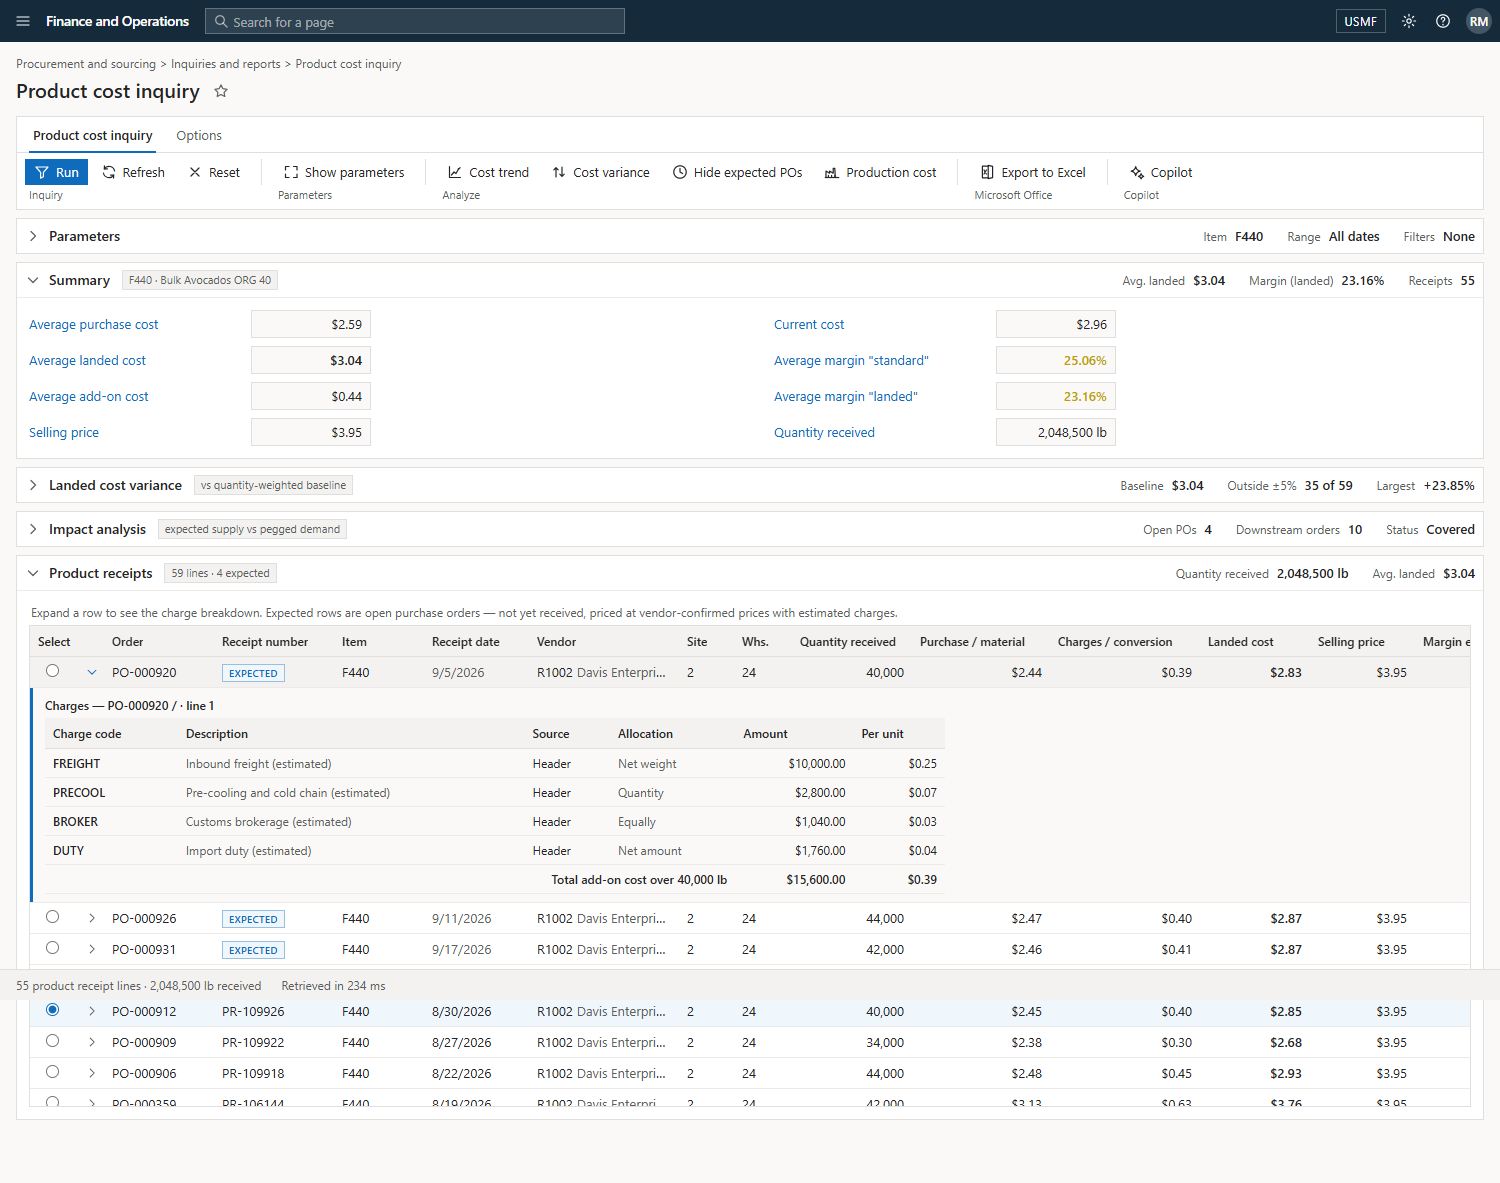
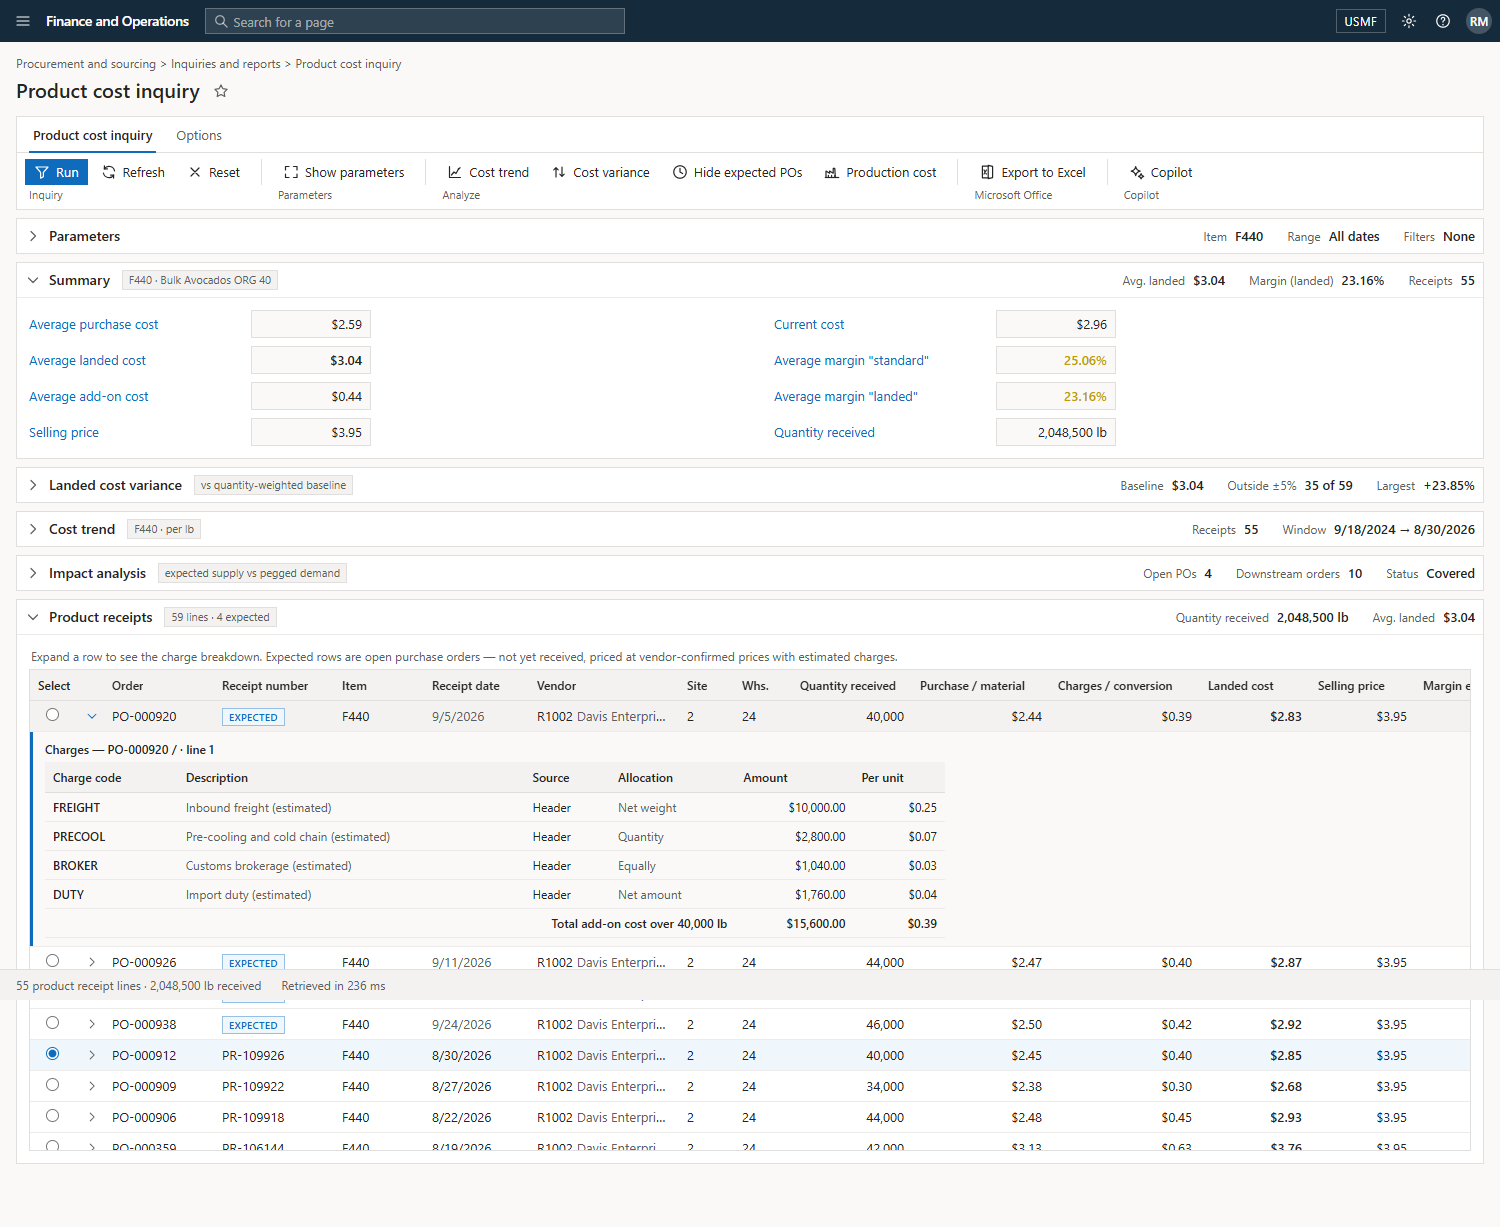
cost-inquiries-v2

diff --git a/web/src/pages/ProductCostInquiry.tsx b/web/src/pages/ProductCostInquiry.tsx
@@ -41,7 +41,7 @@ import { LandedVariancePanel } from '../components/LandedVariancePanel'
 import { ImpactAnalysisPanel } from '../components/ImpactAnalysisPanel'
 import { CopilotPane } from '../components/CopilotPane'
 
-import { money, percent, qty, signedPercent } from '../lib/format'
+import { money, percent, qty, shortDate, signedPercent } from '../lib/format'
 import { hasOptionalFilters, resolveDateWindow } from '../lib/query'
 import { downloadCsv } from '../lib/export'
 import { deepLinksEnabled } from '../lib/links'
@@ -85,8 +85,9 @@ export function ProductCostInquiry({
   const [showSummary, setShowSummary] = useState(true)
   // Expanded by default — the grid is the answer the inquiry was run for.
   const [showReceipts, setShowReceipts] = useState(true)
-  // Starts closed: the grid is the answer to the question that was asked, and
-  // the trend is the follow-up question.
+  // Collapsed rather than absent, like the other analysis FastTabs: the grid
+  // is the answer to the question that was asked, the trend is the follow-up —
+  // but its header stays on the page so everything can be opened side by side.
   const [showTrend, setShowTrend] = useState(false)
   // Collapsed rather than absent: the FastTab header always reports how many
   // receipts sit outside the band, and one click opens the evidence.
@@ -483,7 +484,7 @@ export function ProductCostInquiry({
           </FastTab>
         ) : null}
 
-        {result && result.rows.length > 0 && showTrend ? (
+        {result && result.rows.length > 0 ? (
           <FastTab
             title="Cost trend"
             expanded={showTrend}
@@ -493,6 +494,15 @@ export function ProductCostInquiry({
                 {result.item.itemNumber} · per {result.item.unit}
               </span>
             }
+            summary={[
+              { label: 'Receipts', value: qty(result.rows.length) },
+              {
+                label: 'Window',
+                value: `${shortDate(
+                  result.rows[result.rows.length - 1].receiptDate,
+                )} → ${shortDate(result.rows[0].receiptDate)}`,
+              },
+            ]}
           >
             <CostTrendPanel result={result} />
           </FastTab>
